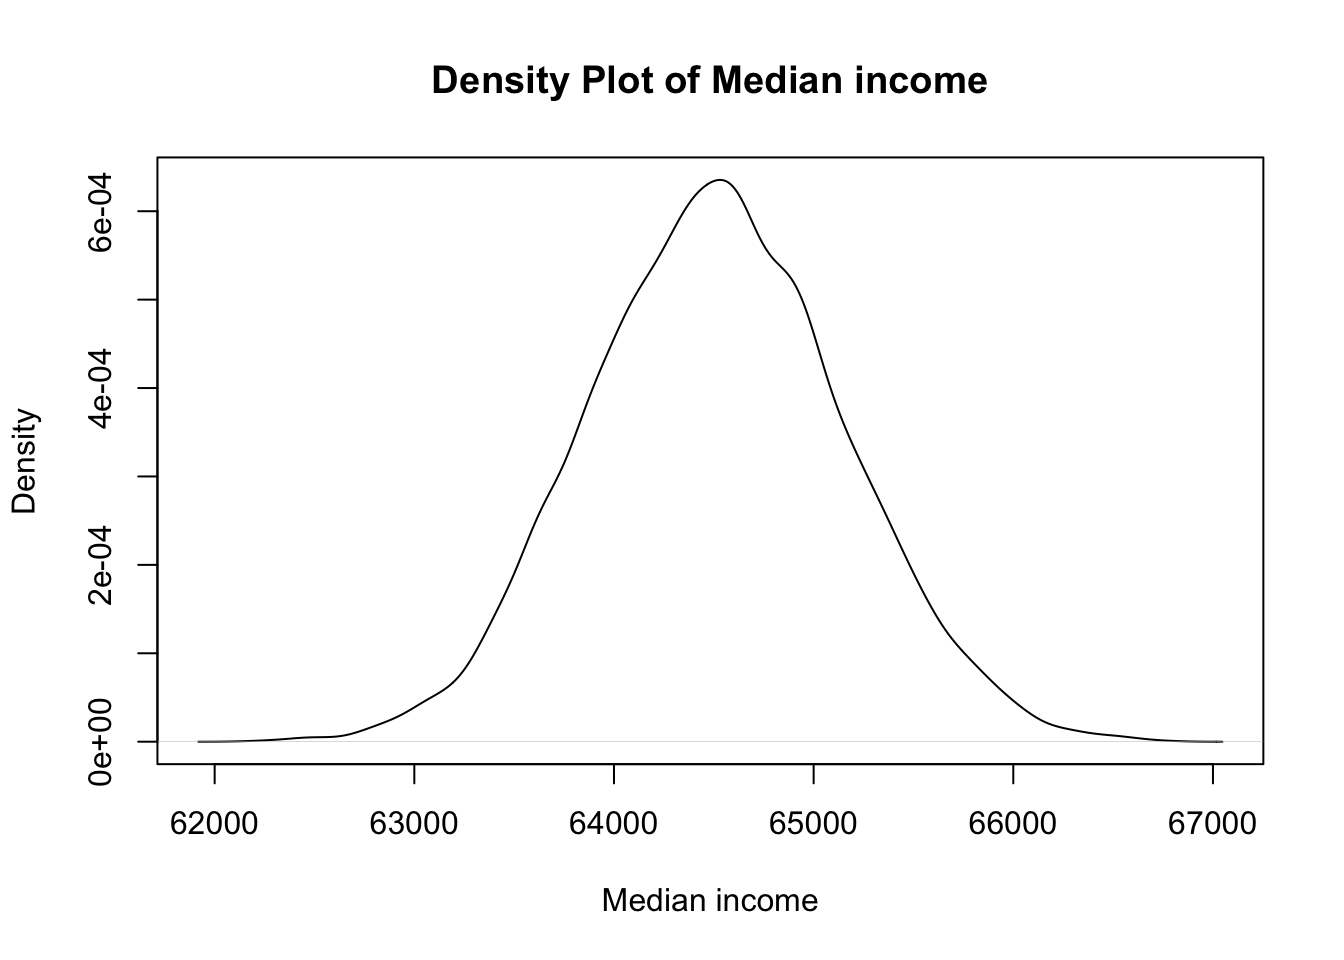
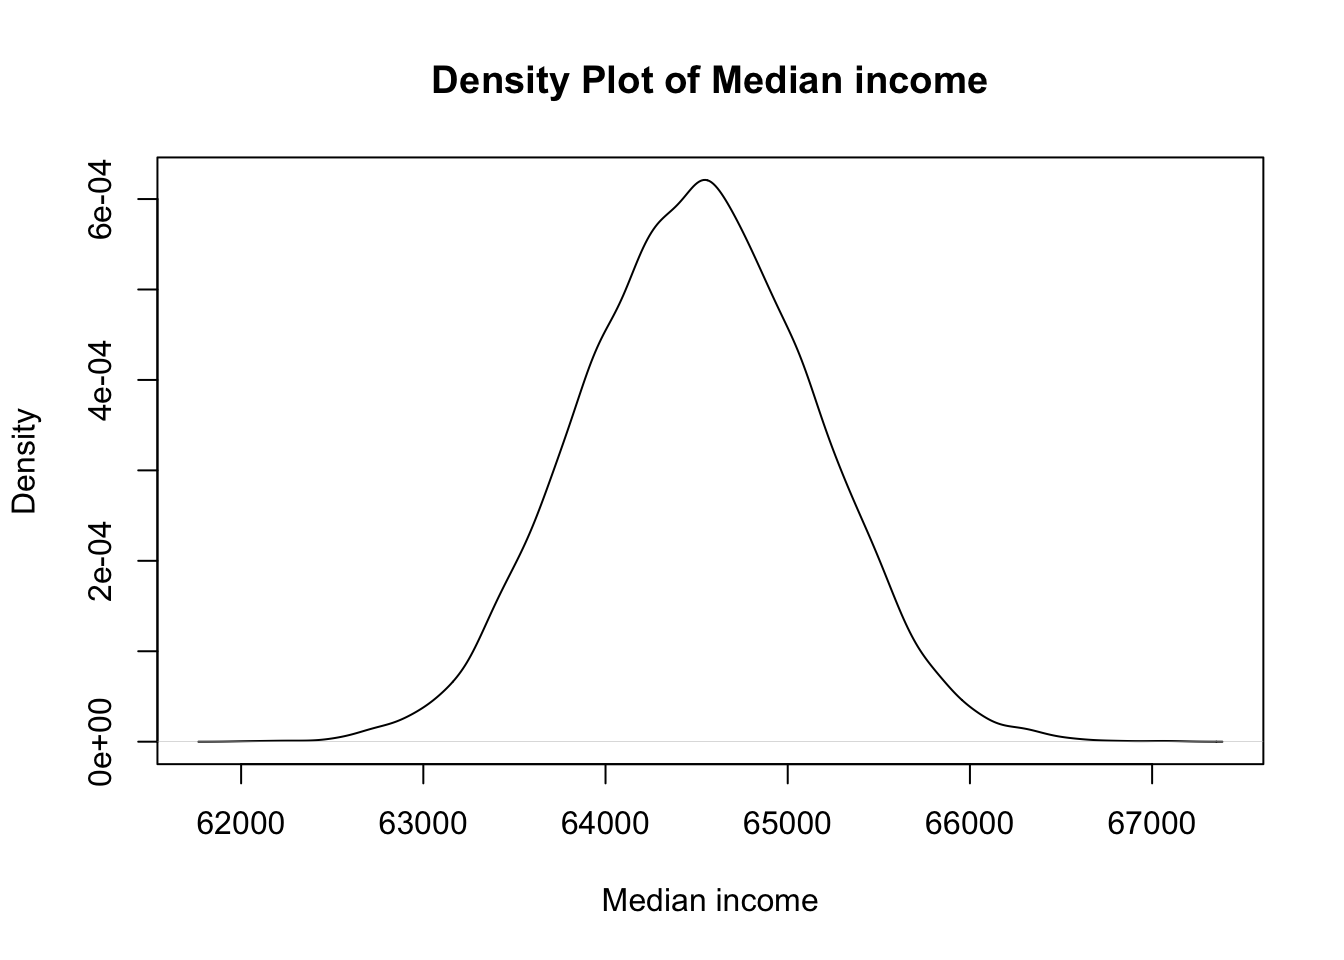
brosure finalising

diff --git a/docs/Education technology/basicc.html b/docs/Education technology/basicc.html
@@ -2023,7 +2023,7 @@ cookieconsent.run({
 <div class="quarto-figure quarto-figure-center">
 <figure class="figure">
 <p><img src="images/_br.jpeg" class="img-fluid figure-img"></p>
-<figcaption>The course</figcaption>
+<figcaption><em>The course</em></figcaption>
 </figure>
 </div>
 </div>
@@ -2031,14 +2031,9 @@ cookieconsent.run({
 <div class="quarto-figure quarto-figure-center">
 <figure class="figure">
 <p><img src="images/_br 2.jpg" class="img-fluid figure-img"></p>
-<figcaption>Experts</figcaption>
+<figcaption><em>Experts</em></figcaption>
 </figure>
 </div>
-</div>
-</div>
-<div class="quarto-layout-row">
-<div class="quarto-layout-cell" style="flex-basis: 50.0%;justify-content: flex-start;">
-<p>11th Basic Orthopaedic Pathology Course</p>
 </div>
 </div>
 </div>
@@ -2051,7 +2046,7 @@ cookieconsent.run({
 <div class="quarto-figure quarto-figure-center">
 <figure class="figure">
 <p><img src="images/_br 3.jpg" class="img-fluid figure-img"></p>
-<figcaption>Price money</figcaption>
+<figcaption><em>Prize</em></figcaption>
 </figure>
 </div>
 </div>
@@ -2059,14 +2054,14 @@ cookieconsent.run({
 <div class="quarto-figure quarto-figure-center">
 <figure class="figure">
 <p><img src="images/_br4.jpg" class="img-fluid figure-img"></p>
-<figcaption>Facilitators</figcaption>
+<figcaption><em>Facilitators</em></figcaption>
 </figure>
 </div>
 </div>
 </div>
 <div class="quarto-layout-row">
 <div class="quarto-layout-cell" style="flex-basis: 50.0%;justify-content: flex-start;">
-<p>11th Basic Orthopaedic Pathology Course</p>
+<p><strong><em>11th Basic Orthopaedic Pathology Course</em></strong></p>
 </div>
 </div>
 </div>
@@ -2080,7 +2075,7 @@ Message from Organising chairman
 </div>
 </div>
 <div class="callout-body-container callout-body">
-<p>“<em>Registration for the next online course in bone pathology and tumours is on. I am attaching the brochure. Kindly share with your friends and juniors and advise them to join. This time, 3 prominent figures in their respective fields at the national level, will be joining us. This definitely makes the course more attractive and authentic. Expecting good support from all of you.</em>”</p>
+<p>“<em><strong>Registration for the next online course on bone pathology and tumors is now open</strong>. I am attaching the brochure. Apart from inviting you, I kindly request you to share this invitation with your friends and juniors and encourage them to join. This time, three prominent figures in their respective fields at the national level will be joining us. This definitely makes the course more attractive and authentic. Expecting good support from all of you.</em>”</p>
 <p><strong><em>Dr Dominic Puthur</em></strong></p>
 </div>
 </div>

diff --git a/docs/posts/montecarlo.html b/docs/posts/montecarlo.html
@@ -2232,7 +2232,7 @@ Income distribution is not normal
 </details>
 <div class="cell-output cell-output-stdout">
 <pre><code>     Min.   1st Qu.    Median      Mean   3rd Qu.      Max. 
-   206819    296366    343693    576498    436110 196174525 </code></pre>
+   214495    296149    343420    708610    435717 472202393 </code></pre>
 </div>
 <details open="" class="code-fold">
 <summary>Code</summary>
@@ -2240,7 +2240,7 @@ Income distribution is not normal
 </details>
 <div class="cell-output cell-output-stdout">
 <pre><code>   Min. 1st Qu.  Median    Mean 3rd Qu.    Max. 
-  62192   64073   64508   64510   64935   66774 </code></pre>
+  62040   64065   64509   64505   64943   67112 </code></pre>
 </div>
 <details open="" class="code-fold">
 <summary>Code</summary>
@@ -2248,7 +2248,7 @@ Income distribution is not normal
 </details>
 <div class="cell-output cell-output-stdout">
 <pre><code>     Min.   1st Qu.    Median      Mean   3rd Qu.      Max. 
-1.006e+06 3.324e+06 5.644e+06 2.827e+07 1.189e+07 1.959e+10 </code></pre>
+9.250e+05 3.340e+06 5.709e+06 4.149e+07 1.175e+07 4.719e+10 </code></pre>
 </div>
 </div>
 </section>

diff --git a/docs/Biomedical/Research Methodology/wrangling.html b/docs/Biomedical/Research Methodology/wrangling.html
@@ -3527,10 +3527,10 @@ Record
 <pre><code>     age   sex  class
    &lt;int&gt; &lt;int&gt; &lt;fctr&gt;
 1:     1     0  child
-2:     2     1  child
+2:     2     0  child
 3:     3     1  child
 4:     4     1  child
-5:     5     1  child
+5:     5     0  child
 6:     6     0  child</code></pre>
 </div>
 </div>
@@ -3550,10 +3550,10 @@ Record
      age      0      1
    &lt;int&gt; &lt;fctr&gt; &lt;fctr&gt;
 1:     1  child   &lt;NA&gt;
-2:     2   &lt;NA&gt;  child
+2:     2  child   &lt;NA&gt;
 3:     3   &lt;NA&gt;  child
 4:     4   &lt;NA&gt;  child
-5:     5   &lt;NA&gt;  child
+5:     5  child   &lt;NA&gt;
 6:     6  child   &lt;NA&gt;</code></pre>
 </div>
 </div>
